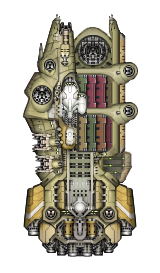
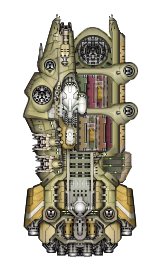
fixed some variants and sprites as well as the reputation bug

Changed region(s): [[0.5312, 0.2637, 0.6875, 0.5568]]

diff --git a/data/scripts/ChornaSystem_modPlugin.java b/data/scripts/ChornaSystem_modPlugin.java
@@ -64,7 +64,9 @@ public class ChornaSystem_modPlugin extends BaseModPlugin {
     @Override
     public void onGameLoad(boolean newGame) {
         super.onGameLoad(newGame);
-        SetRelations();
+        if (newGame) {
+            SetRelations();
+        }
     }
 
     private void SetRelations() {